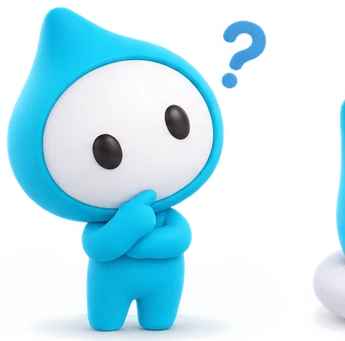
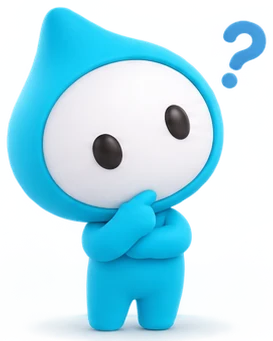
고민하는 캐릭터 그림 오른쪽에 남은 옆 캐릭터 조각 지움 · 크기는 그대로 (CSS v22, 그림 ?v=2)

diff --git a/index.html b/index.html
@@ -11,7 +11,7 @@
 <link rel="icon" href="assets/img/favicon.svg" type="image/svg+xml">
 <link rel="preconnect" href="https://cdn.jsdelivr.net">
 <link rel="stylesheet" href="https://cdn.jsdelivr.net/gh/orioncactus/pretendard@v1.3.9/dist/web/variable/pretendardvariable-dynamic-subset.min.css">
-<link rel="stylesheet" href="assets/css/style.css?v=21">
+<link rel="stylesheet" href="assets/css/style.css?v=22">
 </head>
 <body>
 <div class="scroll-progress" aria-hidden="true"></div>
@@ -144,7 +144,7 @@
       <span class="eyebrow">WHY ONE PLATFORM</span>
       <p class="big-quote"><s>ERP 따로, POS 따로.</s><br>이제 <span class="hl">하나의 회사</span>에서<br>모두 해결하세요.</p>
       <p class="lead">프로그램이 업체마다 따로 놀면 숫자가 서로 맞지 않고, 문제가 생기면 어디에 물어야 할지부터 막힙니다. 아이리젠은 매장에 필요한 모든 프로그램을 직접 만들어 하나로 이었습니다.</p>
-      <div class="intro-chars"><img src="assets/char/c09_think.webp" alt="고민하는 아이리젠 캐릭터" loading="lazy"><span class="bubble">문의는 한 곳, 데이터도 한 곳!</span><img src="assets/char/c15_idea.webp" alt="아이디어를 낸 아이리젠 캐릭터" loading="lazy"></div>
+      <div class="intro-chars"><img class="ic-think" src="assets/char/c09_think.webp?v=2" alt="고민하는 아이리젠 캐릭터" loading="lazy"><span class="bubble">문의는 한 곳, 데이터도 한 곳!</span><img src="assets/char/c15_idea.webp" alt="아이디어를 낸 아이리젠 캐릭터" loading="lazy"></div>
     </div>
     <div class="split-cards">
       <div class="vs-card" data-reveal style="--d:.05s"><div class="before"><b>숫자가 서로 안 맞는 프로그램</b>재고·매출이 프로그램마다 달라요</div><span class="arrow"><svg width="18" height="18" viewBox="0 0 20 20" fill="none"><path d="M4 10h11m-4-4 4 4-4 4" stroke="currentColor" stroke-width="2" stroke-linecap="round" stroke-linejoin="round"/></svg></span><div class="after"><b>하나의 데이터</b>POS에서 팔면 IRM 재고가 바로 맞춰져요</div></div>

diff --git a/assets/css/style.css b/assets/css/style.css
@@ -217,6 +217,7 @@ body.nav-open .mnav { transform: none; }
 .intro-visual .big-quote s { color: var(--gray-2); text-decoration-thickness: 3px; text-decoration-color: rgba(240,68,56,.75); }
 .intro-chars { display: flex; align-items: flex-end; gap: 18px; margin-top: 36px; }
 .intro-chars img { width: 120px; }
+.intro-chars img.ic-think { width: 95px; } /* 11-06 옆 캐릭터 조각을 잘라 그림 폭이 345→273: 캐릭터 크기는 그대로 */
 .intro-chars .bubble { position: relative; padding: 14px 18px; border-radius: 18px; background: var(--blue); color: #fff; font-weight: 700; font-size: 15px; margin-bottom: 70px; box-shadow: var(--shadow); }
 .intro-chars .bubble::after { content: ""; position: absolute; left: -8px; bottom: 16px; border: 9px solid transparent; border-right-color: var(--blue); border-left: 0; }
 
@@ -579,6 +580,7 @@ body.nav-open .mnav { transform: none; }
   .pip .x { right: -6px; top: -6px; width: 22px; height: 22px; font-size: 12px; }
   .intro-chars { gap: 10px; }
   .intro-chars img { width: 78px; }
+  .intro-chars img.ic-think { width: 62px; }
   .intro-chars .bubble { font-size: 13.5px; padding: 11px 14px; margin-bottom: 46px; }
   .flow-card p { padding-right: 62px; }
   .flow-card .ill { width: 70px; }
